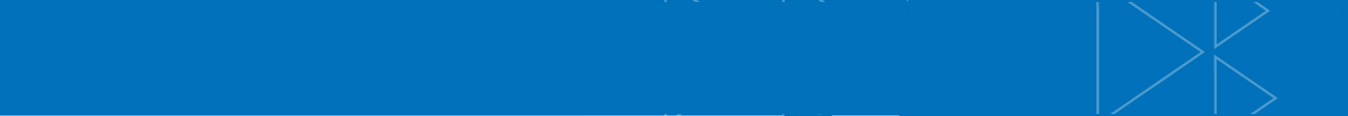
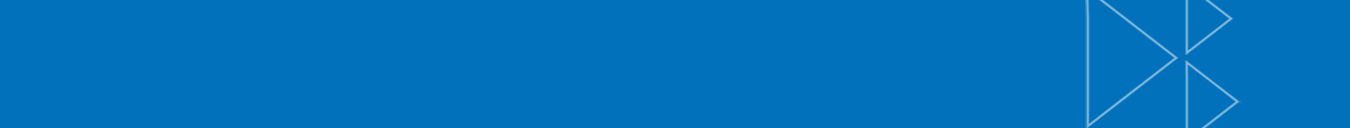
image changes

Changed region(s): [[0.7789, 0.0, 0.9659, 1.0], [0.0, 0.9828, 0.6855, 1.0]]

diff --git a/src/main/webapp/resources/style.css b/src/main/webapp/resources/style.css
@@ -25,7 +25,7 @@
 
 .billPaymentImage
 {
-	 background-image: url('corporate/img/back1.png');
+	 background-image: url('img/blue_small.png');
 	 background-repeat:no-repeat;
 }
 
